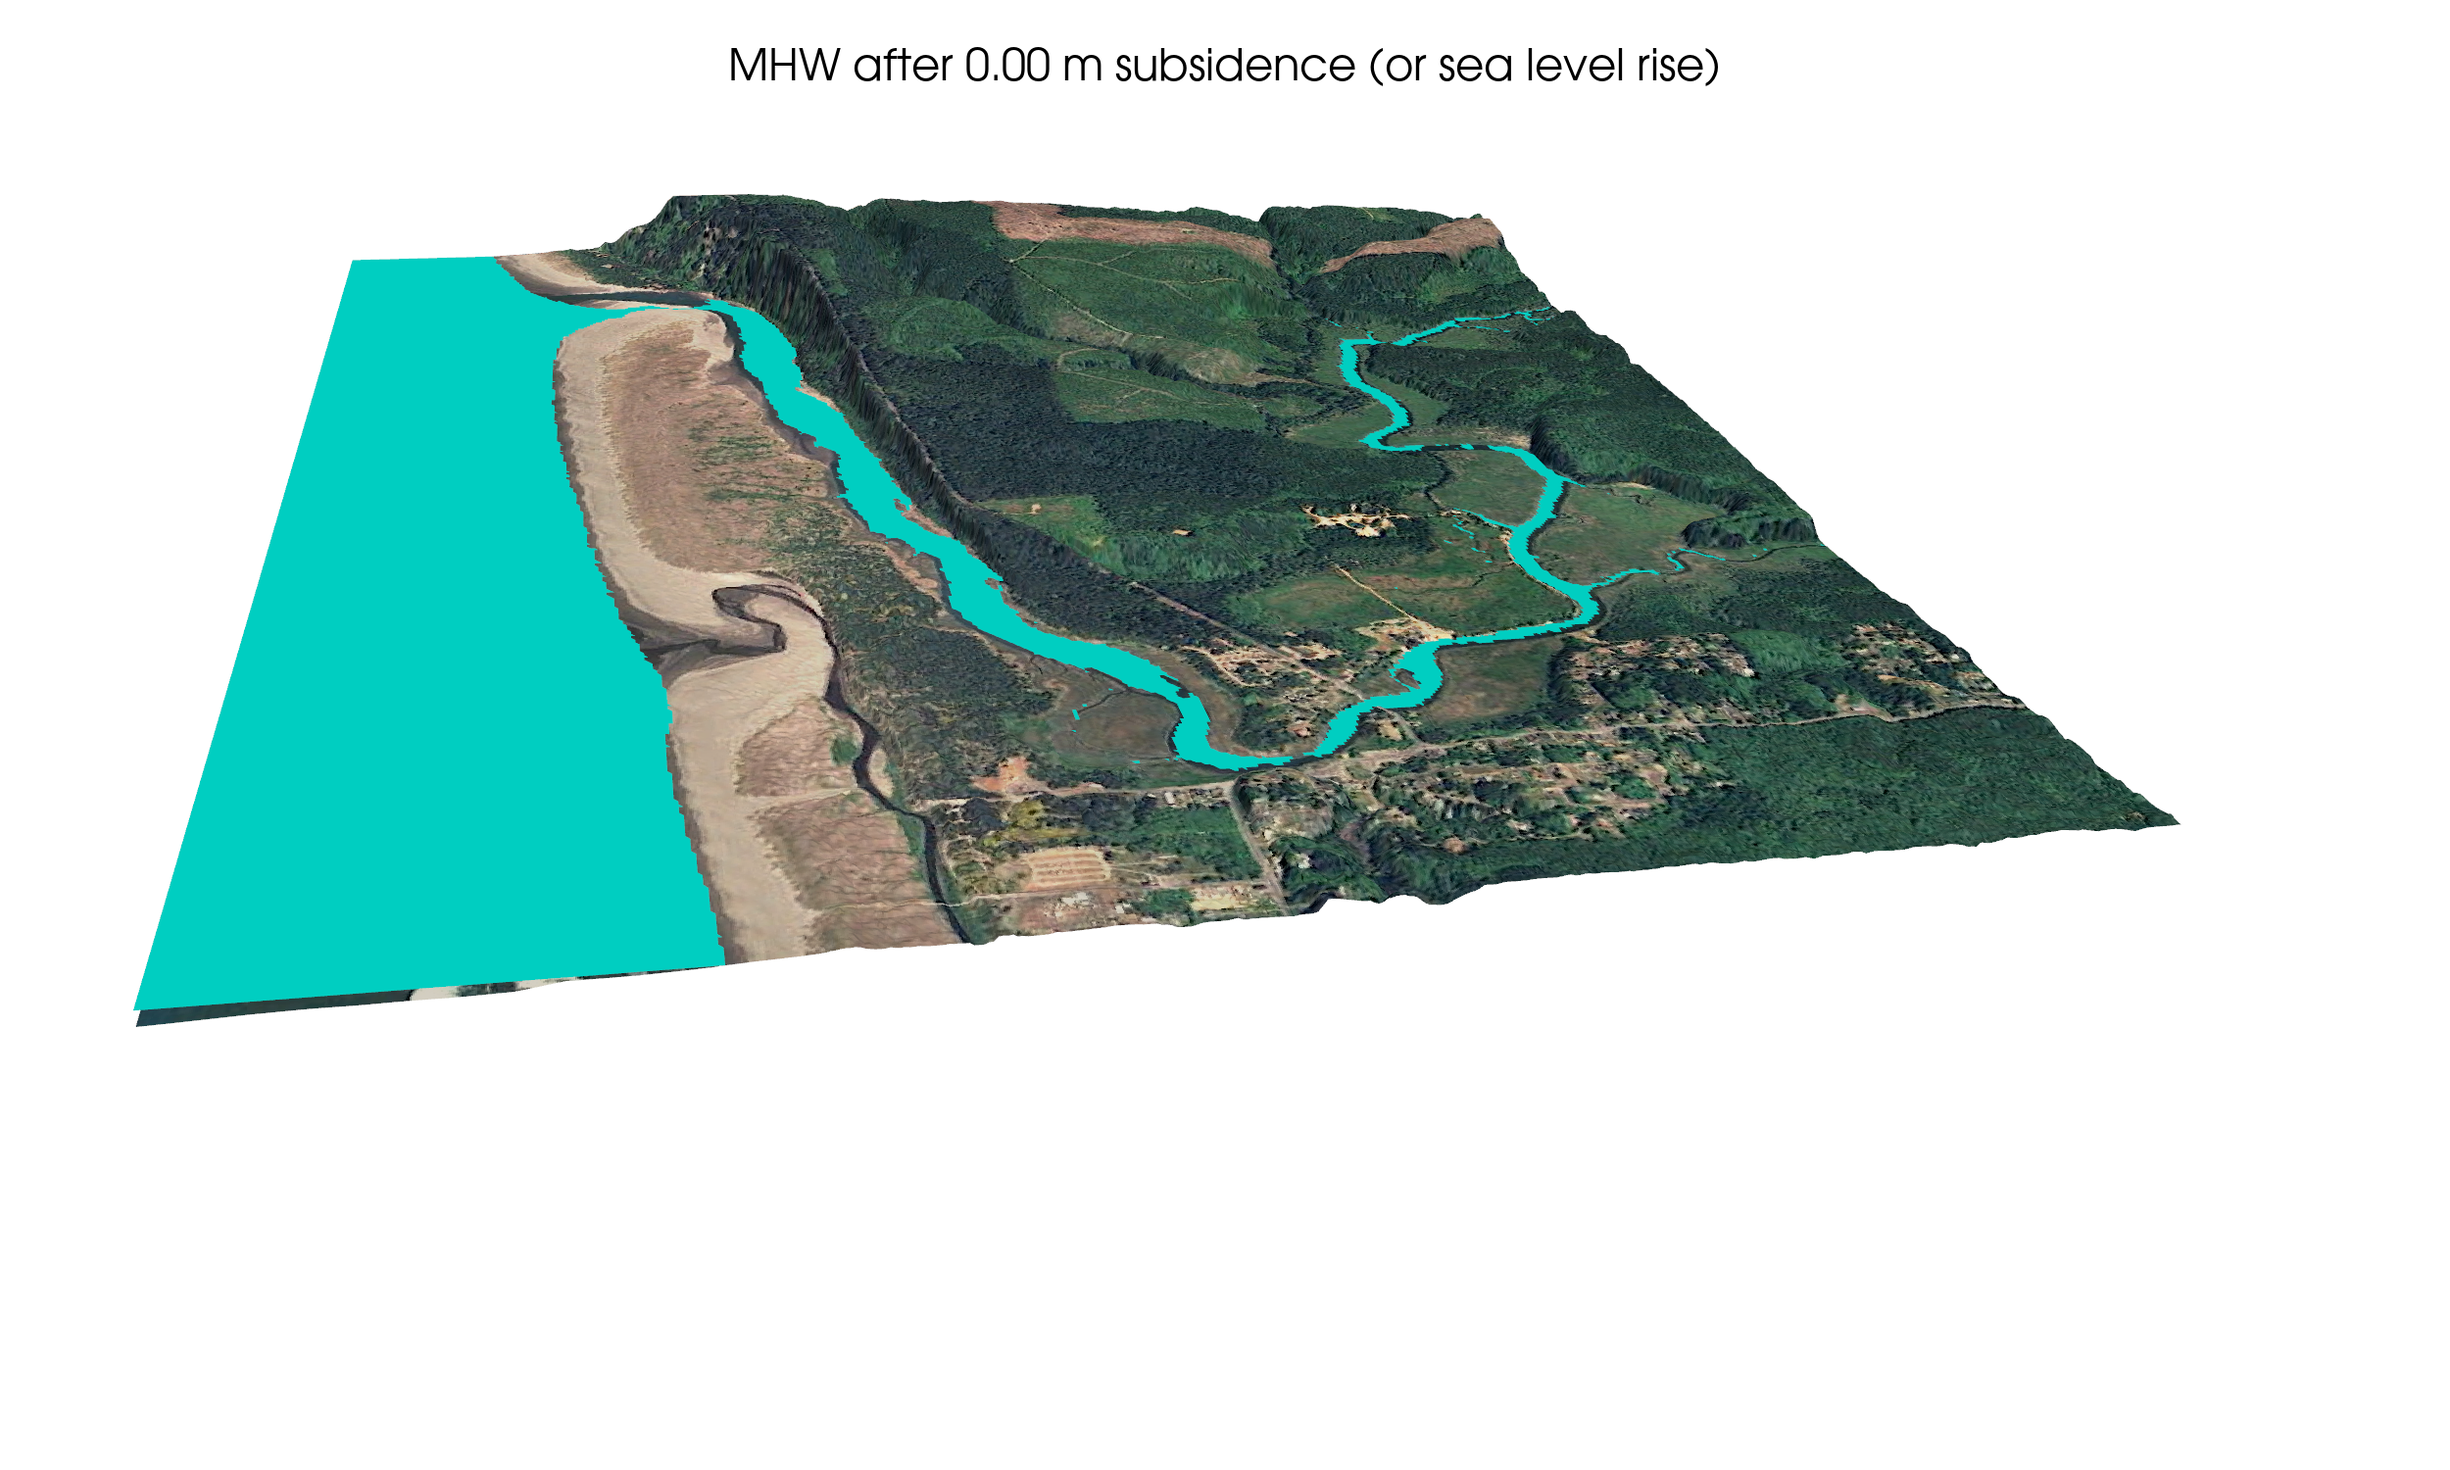
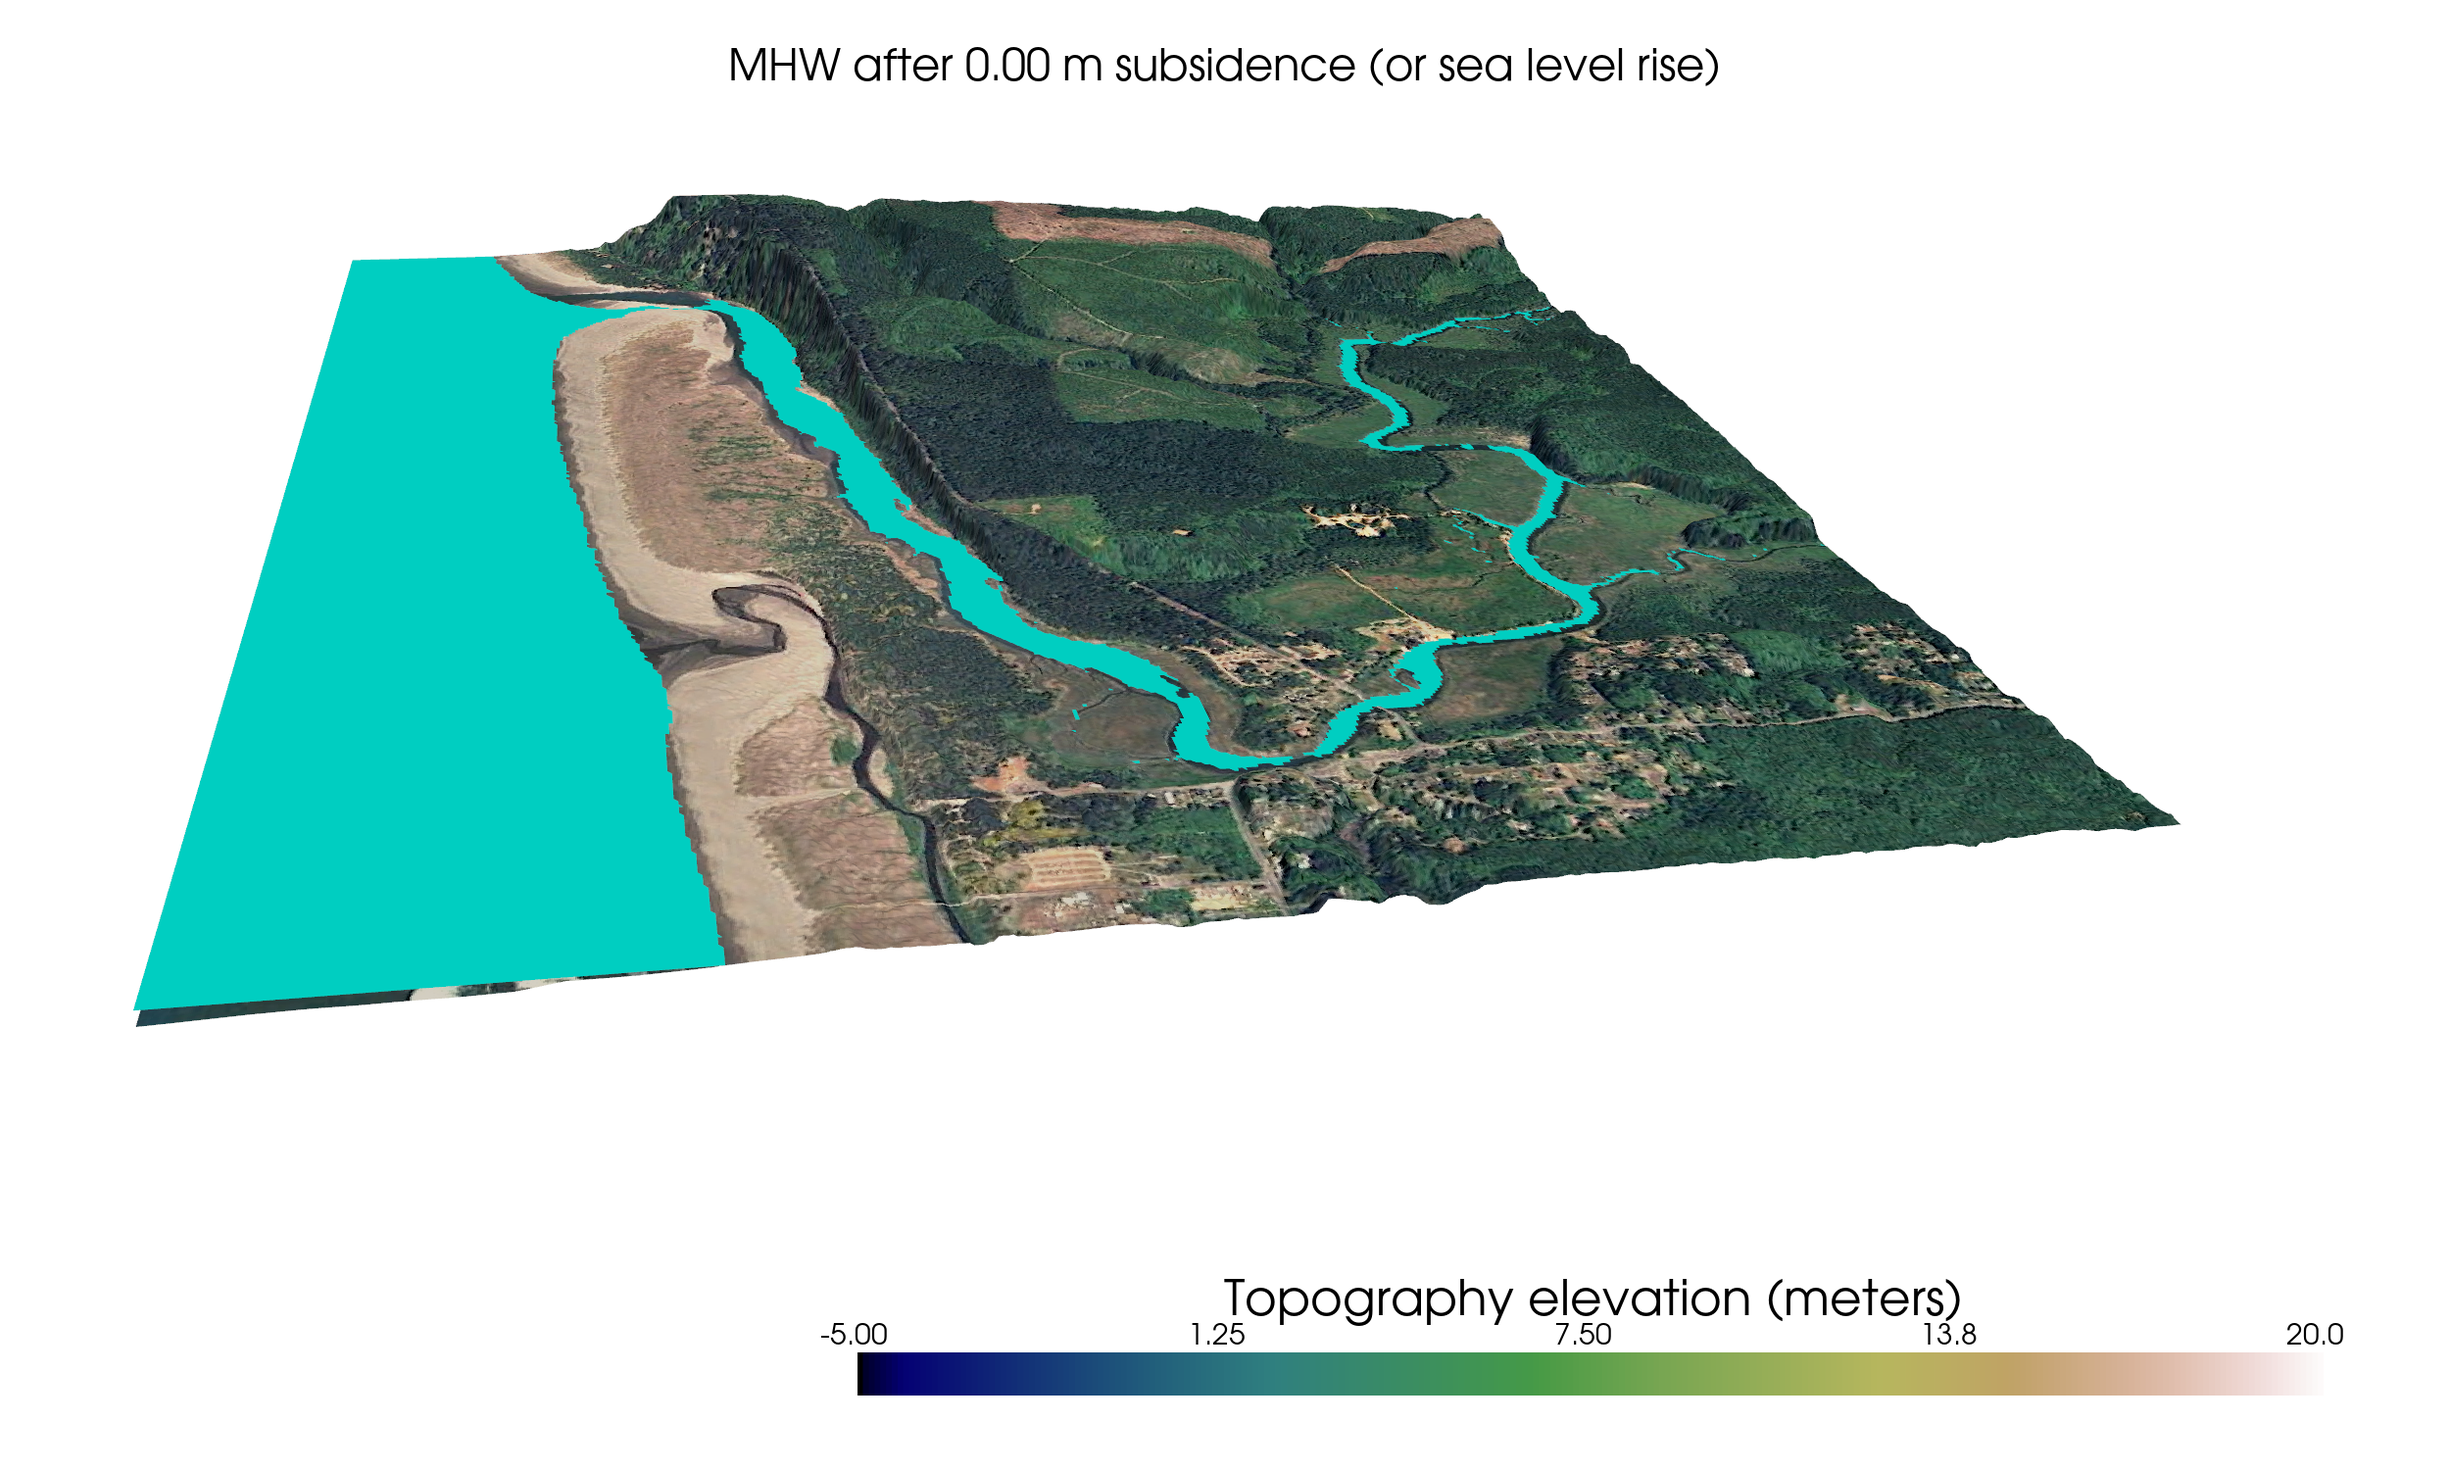
update pyvista scripts and md files in GTT/topo

Changed region(s): [[0.3432, 0.8587, 0.936, 0.9507], [0.936, 0.8893, 0.9672, 0.92]]

diff --git a/GTT/topo/pyvista_CopalisTopo_sealevel.py b/GTT/topo/pyvista_CopalisTopo_sealevel.py
@@ -5,12 +5,18 @@ subsidence (or sea level rise) on this location, and to better understand
 topographic features.
 
 Some tips to using this:
-    - With make_snapshots == False, running this produces an interactive view
-      With make_snapshots == True, a set of screenshots is made instead.
-    - Whenever the slider bar is moved the current camera_position is printed,
-      useful to select an initial position you like (copy and paste)
-    - Can use image as texture rather than coloring topography as elevation,
-      by setting use_image_texture to True
+    - With make_snapshots = make_html = False, the view is interactive.
+      With make_snapshots = True, a set of screenshots is made as png files.
+      With make_html = True, an interactive html file is made (for sea_level=0)
+
+    - When running interactively, whenever the slider bar is moved the current
+      camera_position is printed. This is useful to select an initial position
+      that you like (then copy and paste it into this script)
+
+    - Can use an image as texture rather than coloring topography by elevation,
+      by setting use_image_texture to True.
+      In this case there is an unlabelled checkbox on the interactive view
+      (lower left corner) to toggle the image on or off.
 
 """
 
@@ -21,11 +27,13 @@ from clawpack.geoclaw import topotools
 # Some parameters to modify as described in pyvista.md
 
 warpfactor = 3  # amplification of elevations
-make_snapshots = False
-use_image_texture = True
+make_snapshots = False  # True to save a set of png files for different slr
+make_html = False  # True to save an interactive html file
+use_image_texture = True  # True to drape an image over the topo
 
 # load the topography
 topo = topotools.Topography('../topo/topofiles/Copalis_13s.asc')
+
 # crop it to the fgmax/fgout regions used in CopalisBeach/example2:
 fg_extent = [-124.195, -124.155, 47.11, 47.145]
 topo = topo.crop(fg_extent)
@@ -43,13 +51,20 @@ B = flipud(topo.Z)
 Bmax = 50.
 B = minimum(B, Bmax)
 
+# warp the topo surface:
 topoxyz.point_data['B'] = B.flatten(order='C')
 topowarp = topoxyz.warp_by_scalar('B', factor=warpfactor)
 
 
-global etamesh
+global etamesh, texturesurf
 
 p = pv.Plotter(off_screen=make_snapshots)
+
+# color mesh based on elevation:
+scalar_bar_args={'title_font_size':50, 'label_font_size':30,
+                 'title':'Topography elevation (meters)'}
+toposurf = p.add_mesh(topowarp,cmap='gist_earth',clim=(-5,20),
+                      scalar_bar_args=scalar_bar_args)
 
 if use_image_texture:
     # Add GE image as texture:
@@ -67,13 +82,13 @@ if use_image_texture:
     point_u = (x2, y1, 0.)  # bottom right corner
     point_v = (x1, y2, 0.)  # top right corner
 
-    mapped_surf = topowarp.texture_map_to_plane(origin, point_u, point_v)
-    p.add_mesh(mapped_surf,texture=texture)
-else:
-    # color mesh based on elevation:
-    p.add_mesh(topowarp,cmap='gist_earth',clim=(-5,20))
+    mapped_surf = topowarp.texture_map_to_plane(origin=origin,
+                                                point_u=point_u,
+                                                point_v=point_v)
+    texturesurf = p.add_mesh(mapped_surf,texture=texture, opacity=1)
 
 
+# initial eta plot:
 sea_level = 0.
 eta = where(B < sea_level, sea_level, nan)
 topoxyz.point_data['eta'] = eta.flatten(order='C')
@@ -109,15 +124,18 @@ def set_sea_level(sea_level):
             camera_position[i] = tuple(b)
         print('p.camera_position = ', camera_position)
 
-if not make_snapshots:
-    # interactive view
-    print('interactive... close window to quit')
-    p.add_title('MHW after sea level rise / subsidence')
-    p.add_slider_widget(set_sea_level, [-5,5], value=0,
-                        title='Change in Sea Level (m)',
-                        pointa=(0.1,0.1), pointb=(0.4,0.1),)
-    p.show()
-else:
+
+if make_html:
+    slr = 0.  # set the desired sea_level for the html file
+    set_sea_level(slr)
+    if use_image_texture:
+        fname = f'CopalisTopo_mhw{100*slr:03.0f}cm_with_image.html'
+    else:
+        fname = f'CopalisTopo_mhw{100*slr:03.0f}cm.html'
+    p.export_html(fname)
+    print('Created ', fname)
+
+elif make_snapshots:
     for slr in [0,1,2,3]:
         set_sea_level(slr)
         p.add_title(f'MHW after {slr:.2f} m subsidence (or sea level rise)')
@@ -125,3 +143,28 @@ else:
         p.screenshot(fname_png)
         print('Created ',fname_png)
     p.close()
+
+else:
+    # interactive view
+    print('interactive... close window to quit')
+    p.add_title('MHW after sea level rise / subsidence')
+
+    # sea_level slider bar:
+    p.add_slider_widget(set_sea_level, [-5,5], value=0,
+                        title='Change in Sea Level (m)',
+                        pointa=(0.1,0.2), pointb=(0.4,0.2),
+                        slider_width=0.02, tube_width=0.005)
+
+
+    if use_image_texture:
+
+        # add checkbox to interactive version to toggle image on or off:
+
+        def toggle_vis(flag) -> None:
+            texturesurf.SetVisibility(flag)
+
+        p.add_checkbox_button_widget(toggle_vis, value=True,
+                    position=(90,10), color_on='green')
+
+
+    p.show()  # show interactive view, close external window to exit

diff --git a/GTT/topo/pyvista_CopalisTopo.py b/GTT/topo/pyvista_CopalisTopo.py
@@ -11,6 +11,10 @@ Some tips to using this:
       allowing you to capture a good position and then paste it in to this file.
     - You can add a water surface at sea_level = 0 (or some other level)
       as indicated below, but this hides the topography underneath.
+
+The more complicated script pyvista_CopalisTopo_sealevel.py
+gives more control, shows how to drap an image over the topography,
+and provides a slider bar to adjust the sea level shown.
 """
 
 from pylab import *

diff --git a/GTT/topo/pyvista.md b/GTT/topo/pyvista.md
@@ -8,18 +8,26 @@ This is illustrated by two Python scripts in this `$GTT/topo` directory,
 described below.
 
 ## Simple plot of the Copalis Beach topography
-The script `pyvista_CopalisTopo.py` was used to create a 3D view of
-the topography given by the topofile `topofiles/Copalis_13s.asc` (which was
-created using the [](CopalisTopo) notebook).  
 
+For these examples, we use the topography given by the topofile
+`topofiles/Copalis_13s.asc`, which was created using the
+[](CopalisTopo) notebook.
+
+### Topography alone
+
+The script `pyvista_CopalisTopo.py` can be used to create a 3D view of
+the topography given by the topofile `topofiles/Copalis_13s.asc`.
+(The topofile was created using the [](CopalisTopo) notebook.)  
 
 ```{image} ./images/CopalisTopo3D.png
 :width: 800px
 :align: center
 ```
 
-and here's a version with the water surface at MHW also shown (obtained
-    by setting `show_water = True` in the script):
+### Topography with the water surface at MHW
+
+Here's a version in which the water surface at MHW also shown (obtained
+by setting `show_water = True` in the script):
 
 ```{image} ./images/CopalisTopo3Db.png
 :width: 800px
@@ -30,34 +38,36 @@ and here's a version with the water surface at MHW also shown (obtained
 For this figure the vertical exaggeration of topography has also been
 increased from 3 to 10 (the `warpfactor` parameter in the code) to better
 show that this is a second surface on top of the topography surface.
+
 Note that vertical exaggeration can help to in visualization but can also
 be very misleading if used in excess.  In many cases setting `warpfactor` to
 1 or some small value is best.
 
-For an interactive version see [](pyvista_interactive).  If you have PyVista
+For an interactive version see [](topo:pyvista_interactive).  If you have PyVista
 installed, then running the `pyvista_CopalisTopo.py` script will create
 a separate window with a similar interactive view.
 
 ## Changing sea level / coastal subsidence
 
-The script `pyvista_CopalisTopo_sealevel.py` can be run to open an
-interactive view that allows you to change sea level, in order to explore
+The more complicated script `$GTT/topo/pyvista_CopalisTopo_sealevel.py`
+can be run to open
+an interactive view that allows you to change sea level, in order to explore
 what this topography would look like if sea level rises (or following the
 co-seismic subsidence of an earthquake).
 
 Below are several snapshots for different choices of `sea_level`
-that were produced by setting
-`make_snapshots = True` in the script (with `make_snapshots = False` the
-script produces an interactive window with a slider bar that allows you
-to adjust the `sea_level` parameter).
+that were produced by setting `make_snapshots = True` in the script.
 
 The plots below also show that an image can be draped on the topography
 rather than using a colormap based on elevation.  In these figures a
 screenshot from Google Earth was used as the image, but one could also
 use a map or other image.
 
-The water surface at the current MHW is shown in plots above. These
-snapshots show two elevated levels.
+If you run the interactive script, by default there is an unlabelled checkbox
+in the lower left corner that toggles the image on or off.
+
+The snapshots below show the water surface at four different levels: at MHW
+and at 1, 2, or 3 meters above MHW.
 
 
 ```{image} ./images/CopalisTopo_mhw000cm.png
@@ -79,4 +89,3 @@ snapshots show two elevated levels.
 :width: 800px
 :align: center
 ```
-

diff --git a/GTT/topo/pyvista_interactive.md b/GTT/topo/pyvista_interactive.md
@@ -18,21 +18,6 @@ script and then embedding the resulting html file in this page:
     allowfullscreen>text
 </iframe>
 
-
-
-## Changing sea level / coastal subsidence
-
-The script `pyvista_CopalisTopo_sealevel.py` can be run to open an
-interactive view that allows you to change sea level, in order to explore
-what this topography would look like if sea level rises (or following the
-co-seismic subsidence of an earthquake).
-
-Below are a couple of snapshots that were produced by setting
-`make_snapshots = True` in the script.
-
-The water surface at the current MHW is shown in plots above. These
-snapshots show two elevated levels.
-
-![](./images/CopalisTopo_mhw100cm.png)
-
-![](./images/CopalisTopo_mhw300cm.png)
+Alternatively, one can
+[open the html file](https://depts.washington.edu/clawpack/geoclaw/GTT_html/CopalisTopo3D.html)
+directly in a new tab.
